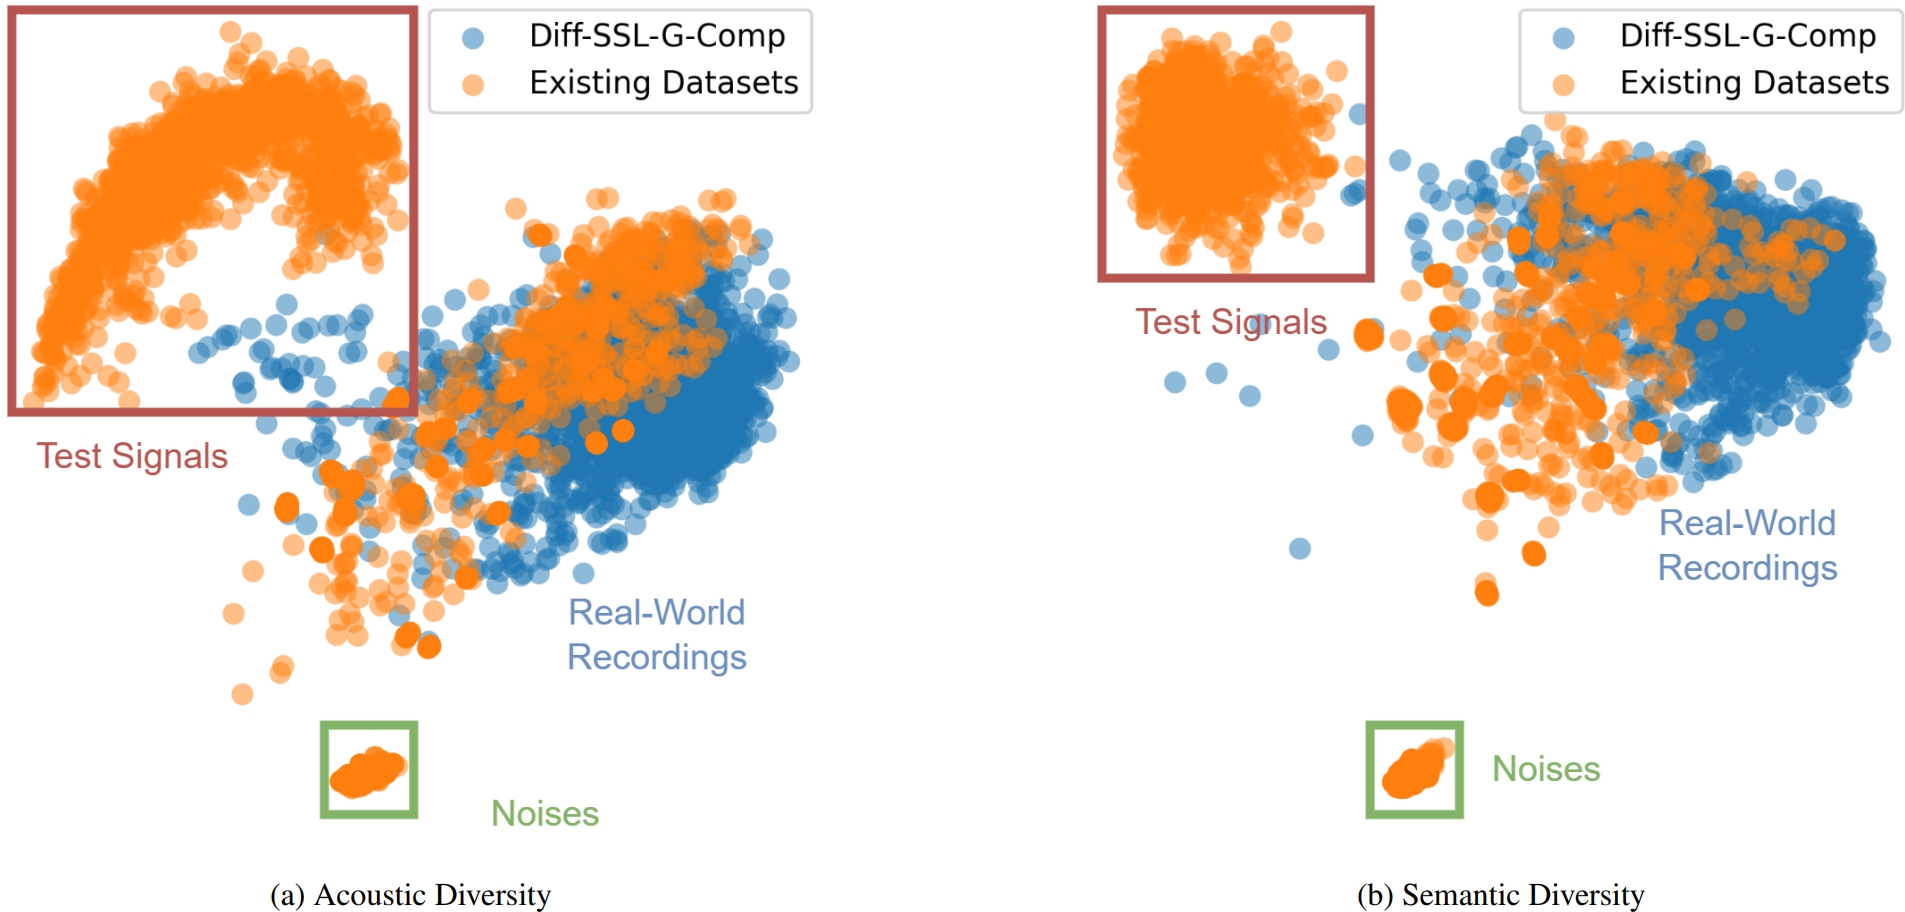
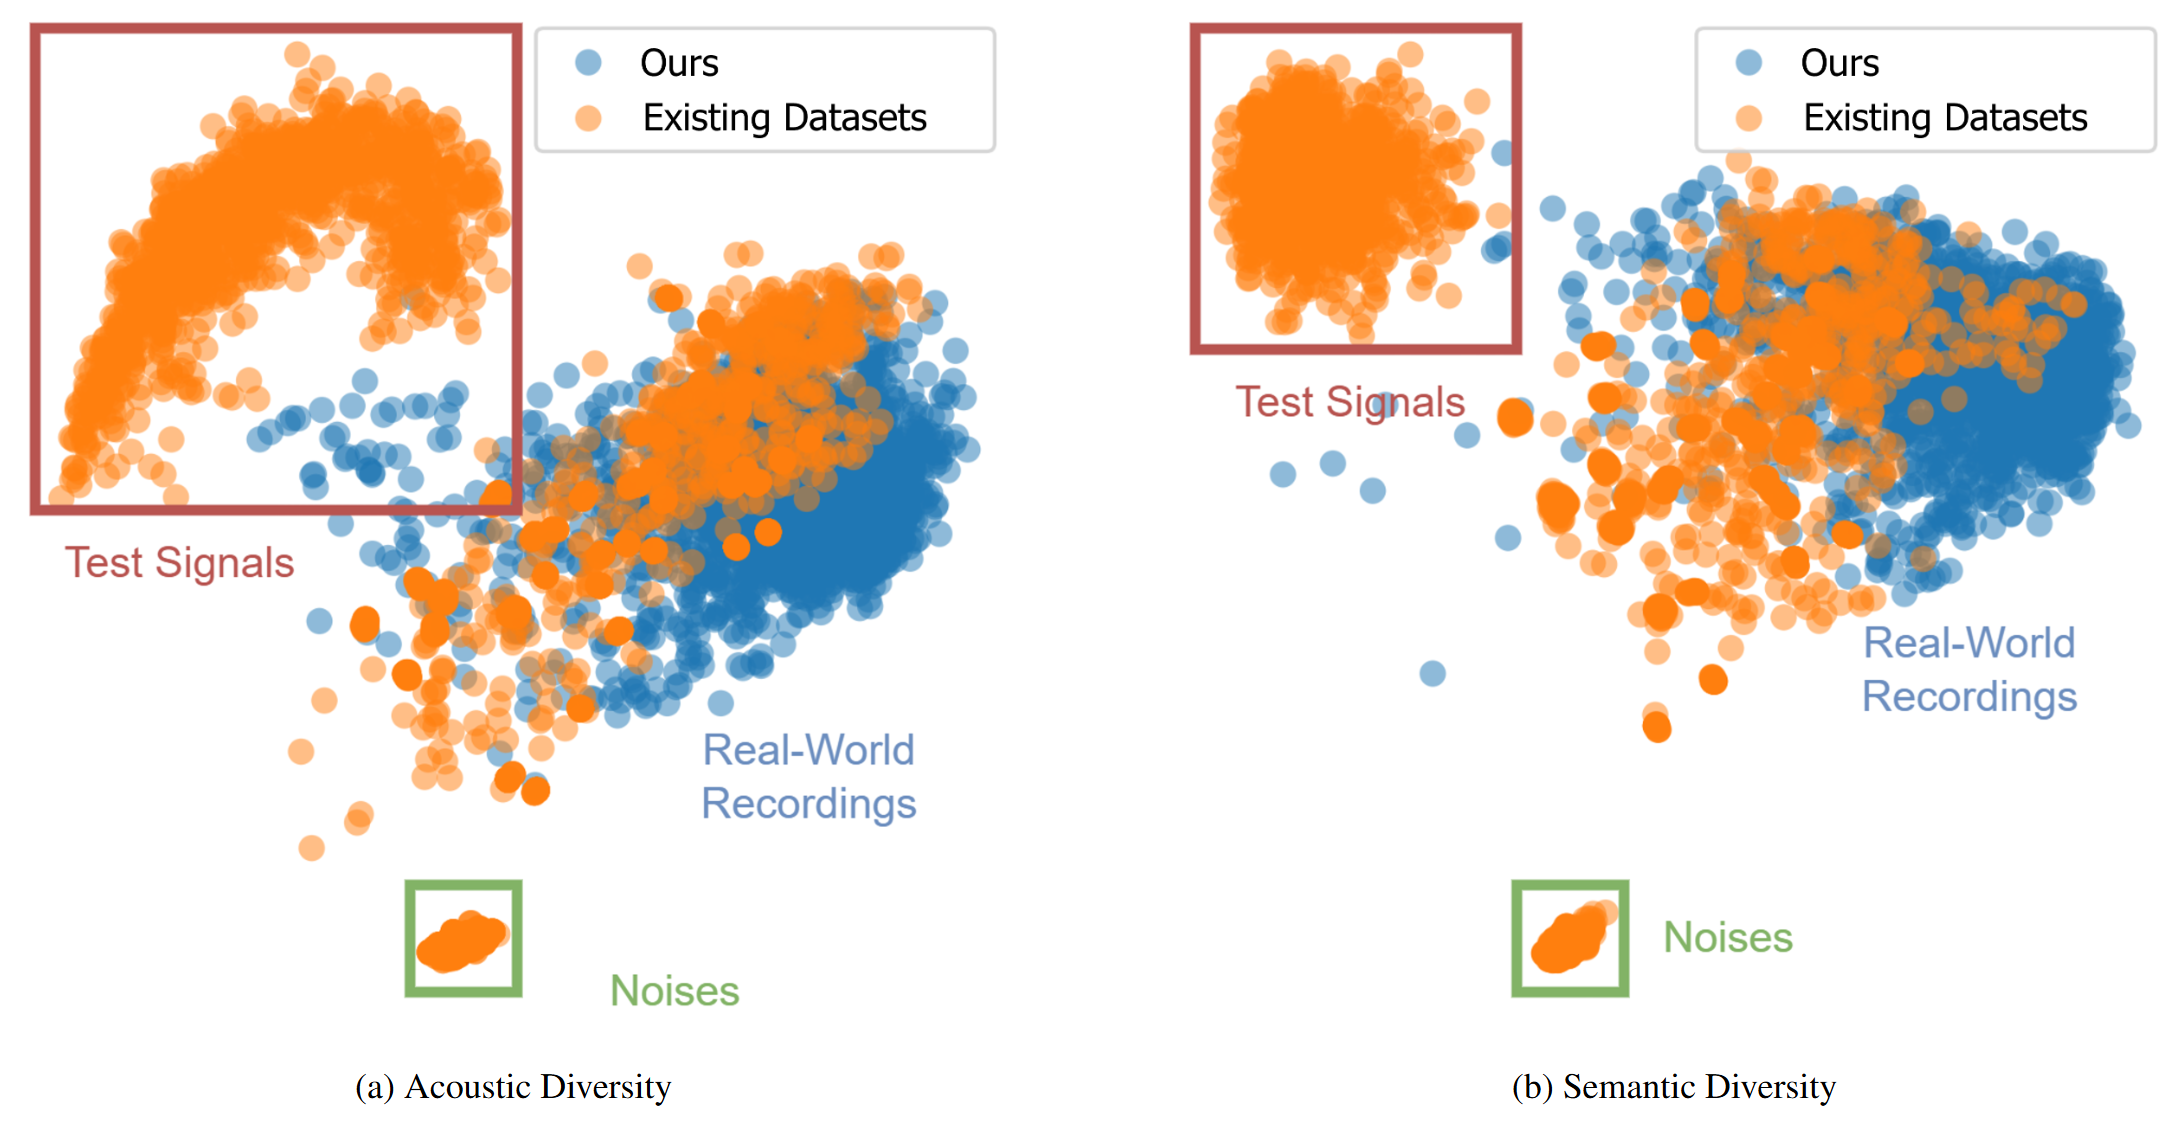
update

diff --git a/index.html b/index.html
@@ -4,7 +4,7 @@
 <head>
   <meta charset="UTF-8">
   <meta name="viewport" content="width=device-width, initial-scale=1.0">
-  <title>Diff-SSL-G-Comp Demo Page</title>
+  <title>SolidStateBusComp Demo Page</title>
   <script src="./static/tailwind.js"></script>
   <script src="./static/vue.global.js"></script>
   <script src="./static/flowbite.min.js"></script>
@@ -111,7 +111,7 @@
               <a href="#demos" class="list-select">Demos</a>
             </li>
             <li>
-              <a href="https://huggingface.co/datasets/amphion/Diff-SSL-G-Comp" class="list-select" target="_blank">
+              <a href="https://huggingface.co/datasets/amphion/SolidStateBusComp" class="list-select" target="_blank">
                 <img class="h-6 w-6" src="https://huggingface.co/front/assets/huggingface_logo-noborder.svg" />
               </a>
             </li>
@@ -124,18 +124,16 @@
       <div class="p-6" id="home">
 
         <div class="mt-8 mb-8">
-          <h1>Diff-SSL-G-Comp: Towards a Large-Scale and Diverse Dataset <br> for Virtual Analog Modeling</h1>
+          <h1>Solid State Bus-Comp: A Large-Scale and Diverse Dataset for Dynamic Range Compressor Virtual Analog
+            Modeling</h1>
         </div>
 
         <div class="flex gap-2 justify-center flex-wrap">
           <a href="https://arxiv.org/abs/2504.04589" target="_blank">
             <img src="https://img.shields.io/badge/arXiv-Paper-COLOR.svg">
           </a>
-          <a href="https://huggingface.co/datasets/amphion/Diff-SSL-G-Comp" target="_blank">
+          <a href="https://huggingface.co/datasets/amphion/SolidStateBusComp" target="_blank">
             <img src="https://img.shields.io/badge/%F0%9F%A4%97%20HuggingFace-Dataset-yellow">
-          </a>
-          <a href="https://www.yichenggu.com/DiffSSLGComp/" target="_blank">
-            <img src="https://img.shields.io/badge/WebPage-Demo-red">
           </a>
         </div>
 
@@ -165,30 +163,30 @@
             dynamics of a track by reducing and amplifying the volumes of loud and quiet sounds, which is essential in
             music production. In recent years, neural-network-based VA modeling has shown great potential in producing
             high-fidelity models. However, due to the lack of data quantity and diversity, their generalization ability
-            in different parameter settings and input sounds is still limited. To tackle this problem, we present
-            Diff-SSL-G-Comp, the first large-scale and diverse dataset for modeling the SSL 500 G-Bus Compressor.
-            Specifically, we manually collected 175 unmastered songs from the Cambridge Multitrack Library. We recorded
-            the compressed audio in 220 parameter combinations, resulting in an extensive 2528-hour dataset with diverse
-            genres, instruments, tempos, and keys. Moreover, to facilitate the use of our proposed dataset, we conducted
-            benchmark experiments in various open-sourced black-box and grey-box models, as well as white-box plugins.
-            We also conducted ablation studies in different data subsets to illustrate the effectiveness of improved
-            data diversity and quantity. The dataset and demos are on our project page: <a
-              href="http://www.yichenggu.com/DiffSSLGComp/">http://www.yichenggu.com/DiffSSLGComp/</a>.
+            in different parameter settings and input sounds is still limited. To tackle this problem, we present Solid
+            State Bus-Comp, the first large-scale and diverse dataset for modeling the classical VCA compressor --- SSL
+            500 G-Bus. Specifically, we manually collected 175 unmastered songs from the Cambridge Multitrack Library.
+            We recorded the compressed audio in 220 parameter combinations, resulting in an extensive 2528-hour dataset
+            with diverse genres, instruments, tempos, and keys. Moreover, to facilitate the use of our proposed dataset,
+            we conducted benchmark experiments in various open-sourced black-box and grey-box models, as well as
+            white-box plugins. We also conducted ablation studies in different data subsets to illustrate the
+            effectiveness of the improved data diversity and quantity. The dataset and demos are on our project page: <a
+              href="https://www.yichenggu.com/SolidStateBusComp/">https://www.yichenggu.com/SolidStateBusComp/</a>.
           </p>
         </div>
 
-        <h4 id="dataset">Diff-SSL-G-Comp</h4>
+        <h4 id="dataset">SolidStateBusComp</h4>
 
         <h5 id="dataset-overview">Overview</h5>
         <p class="text-p">
-          <code>Diff-SSL-G-Comp</code> is constructed from processing 175 unmastered songs from the <a
+          <code>SolidStateBusComp</code> is constructed from processing 175 unmastered songs from the <a
             href="https://www.cambridge-mt.com/ms/mtk/">Cambridge Multitrack Library</a> with 220 different parameter
           conbinations. It comprises 2258 hours of processed data with diverse genres, instruments, tempos, and keys,
           as illustrated below.
         </p>
 
         <div class="w-full">
-          <img class="mx-auto max-h-[600px]" src="./static/table_new.jpg"></img>
+          <img class="mx-auto max-h-[600px]" src="./static/table.png"></img>
         </div>
 
         <br>
@@ -210,7 +208,8 @@
 
         <br>
         <p class="text-p">
-          The figure below compares the acoustic and semantic diversities between Diff-SSL-G-Comp and existing datasets,
+          The figure below compares the acoustic and semantic diversities between SolidStateBusComp and existing
+          datasets,
           which are sourced mainly from noises and test signals. The more scattered pattern in the cluster representing
           the real-world recordings highlights our dataset as encompassing a richer acoustic characteristic and semantic
           coverage than the existing datasets.
@@ -218,7 +217,7 @@
         <br>
 
         <div class="w-full">
-          <img class="mx-auto max-h-[400px]" src="./static/diversity_new.jpg"></img>
+          <img class="mx-auto max-h-[400px]" src="./static/diversity.png"></img>
         </div>
 
         <h5>Data Preview</h5>
@@ -255,7 +254,7 @@
         <h4 id="demos">Demos</h4>
         <p class="text-p">
           In this section, we demonstrate the virtual analog modeling performance of the representative black-box and
-          grey-box models trained on Diff-SSL-G-Comp, as well as samples generated by white-box commercial plugins.
+          grey-box models trained on SolidStateBusComp, as well as samples generated by white-box commercial plugins.
         </p>
 
         <p class="text-p">
@@ -263,7 +262,7 @@
             href="https://drive.google.com/drive/folders/1zf5hnF7XGRW-poo_cqjQthKBeAZx33gd?usp=drive_link">Google
             Drive</a>, and all the
           samples generated by the commercial plugins can be found on the <a
-            href="https://huggingface.co/datasets/amphion/Diff-SSL-G-Comp">Hugging Face dataset page</a>. Model
+            href="https://huggingface.co/datasets/amphion/SolidStateBusComp">Hugging Face dataset page</a>. Model
           configurations and usage guides are also attached. We highly recommend that researchers run these experiments
           by hand since it is usually hard to hear the significant difference in compression models.
         </p>
